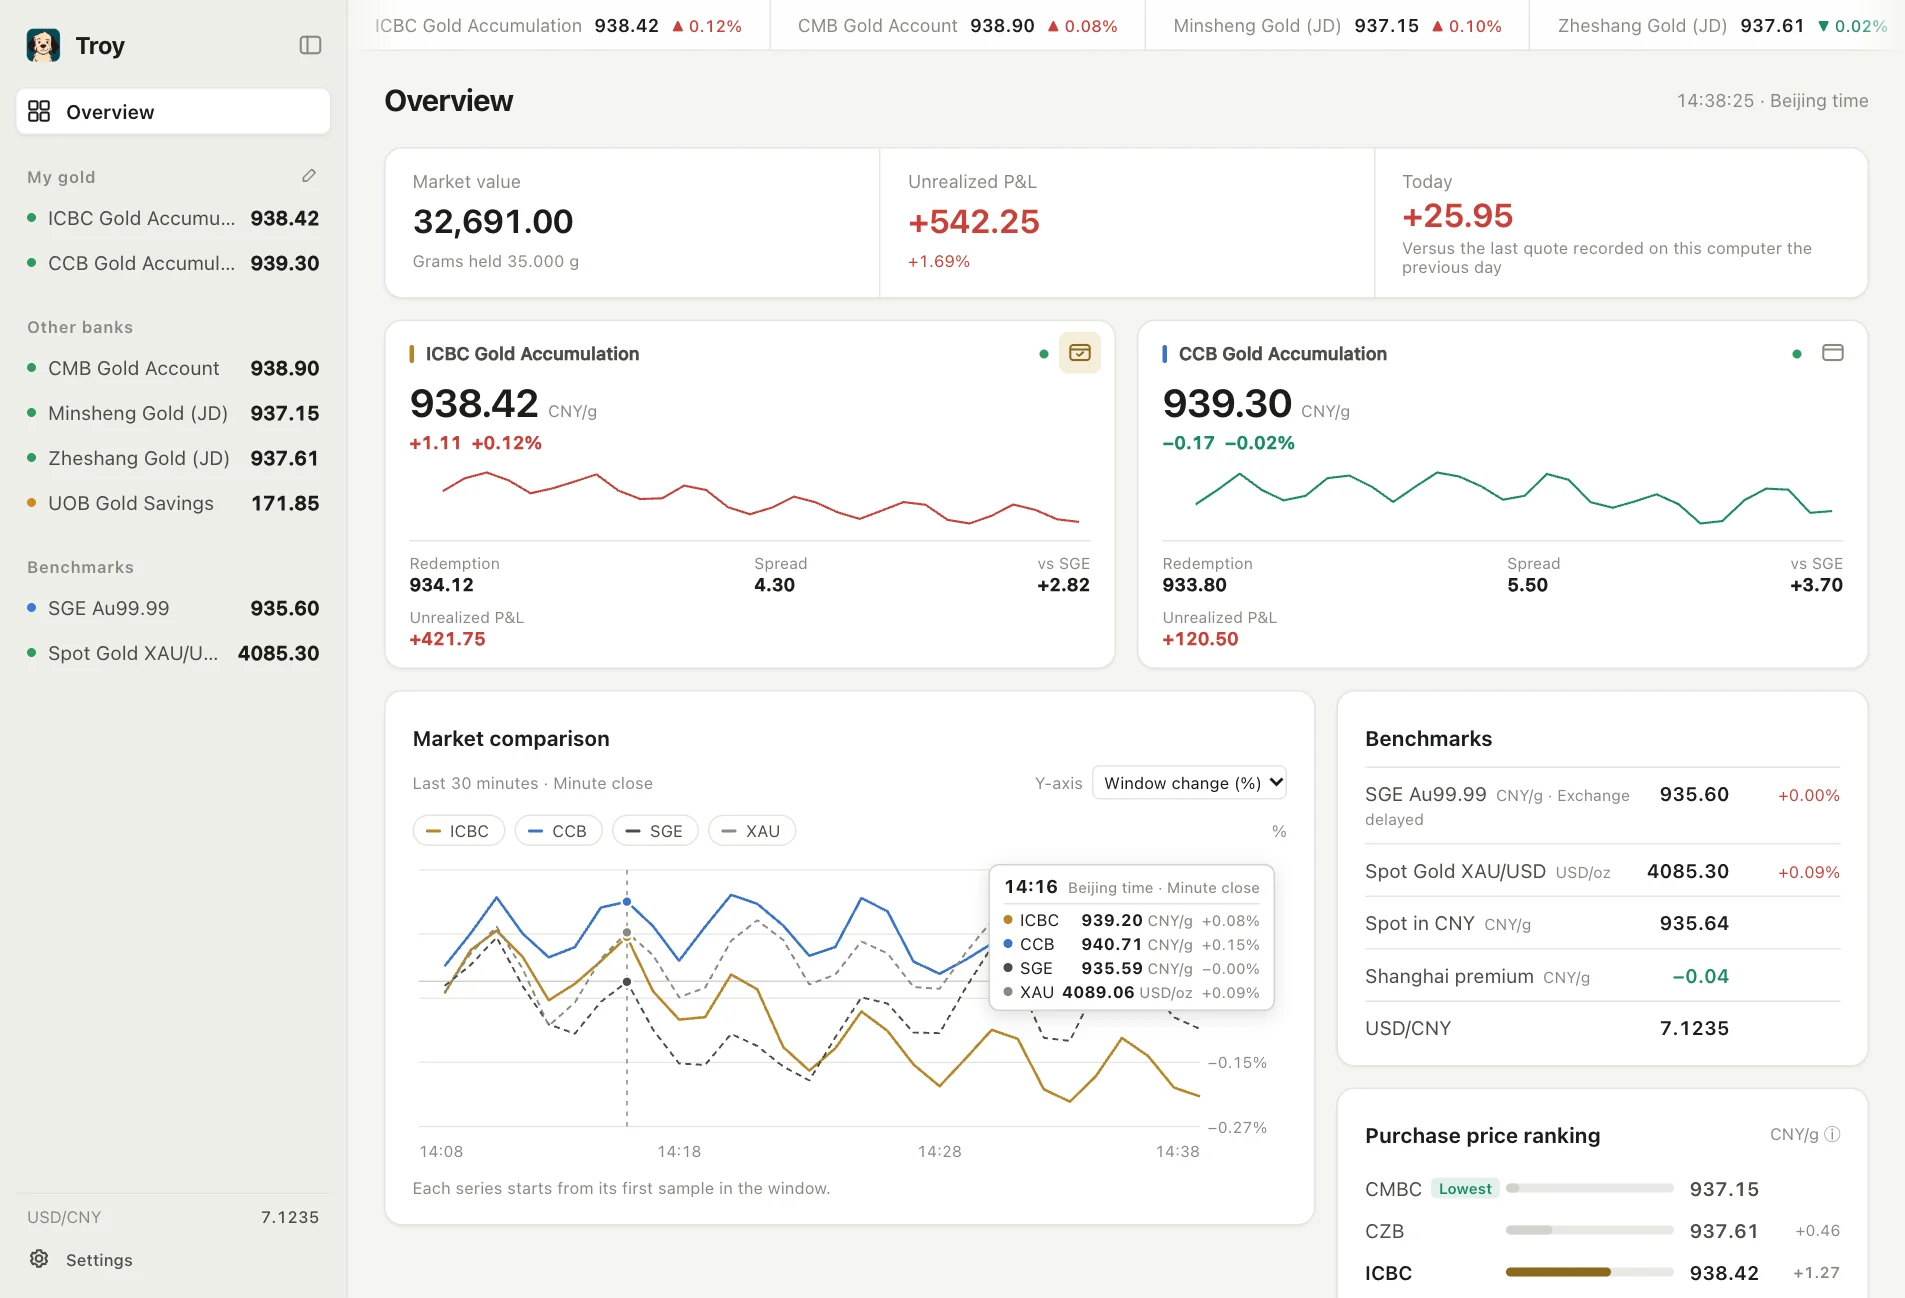
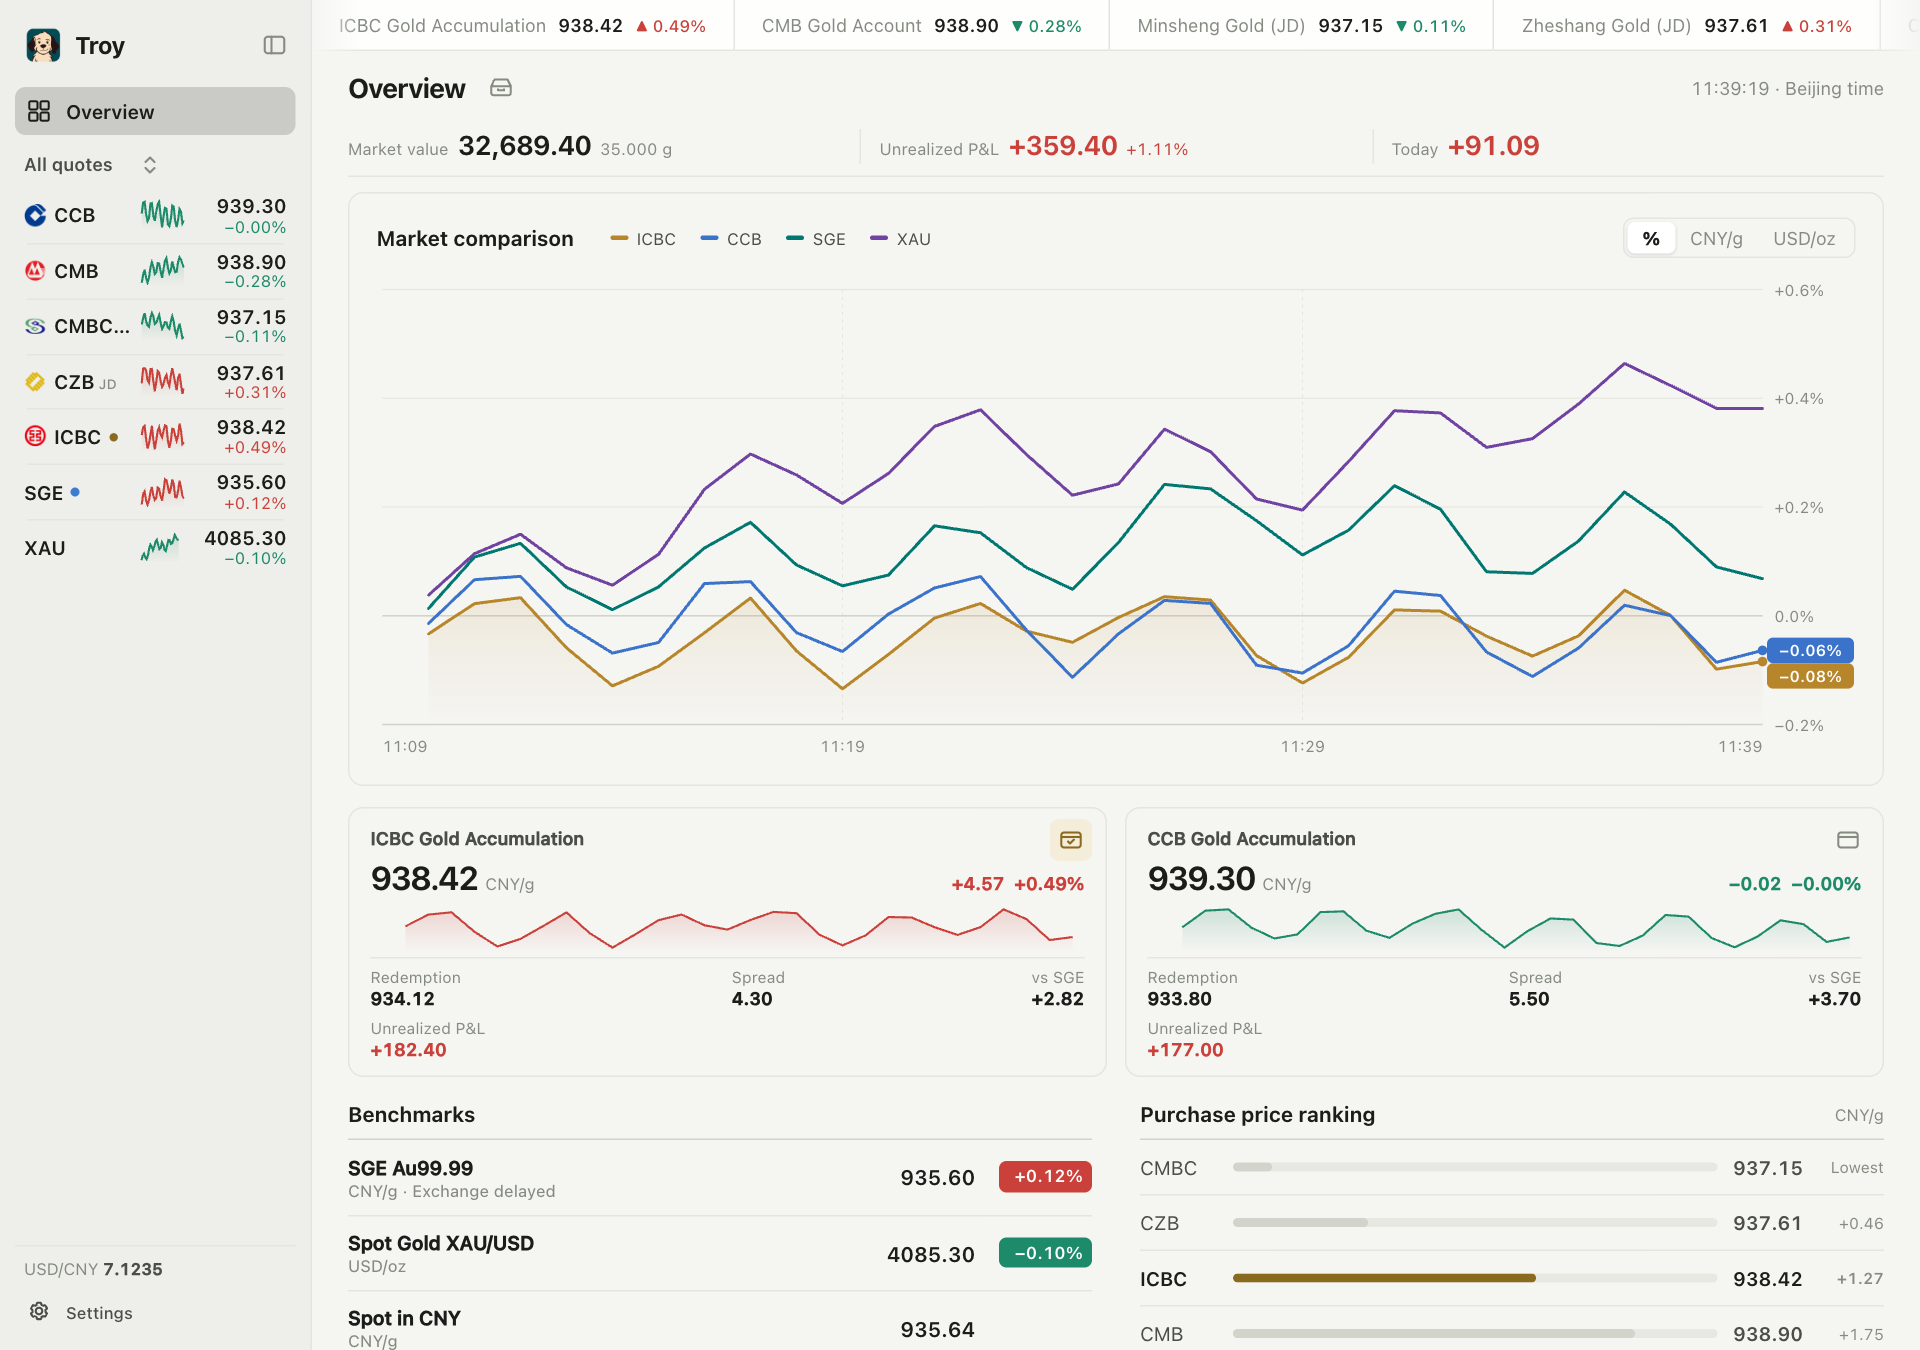
Refresh bilingual dashboard screenshots and 2.1 usage guide

diff --git a/README.md b/README.md
@@ -26,7 +26,7 @@
 
 ---
 
-Named for the troy ounce, Troy follows six bank gold accounts, Shanghai Gold Exchange Au99.99 and XAU/USD. Pin a quote to your Mac menu bar or check it from the Windows tray. Holdings, price targets and sampled history stay on your computer.
+Named for the troy ounce, Troy follows five bank gold accounts, Shanghai Gold Exchange Au99.99 and XAU/USD. Pin a quote to your Mac menu bar or check it from the Windows tray. Holdings, price targets and sampled history stay on your computer.
 
 <a id="install"></a>
 
@@ -42,25 +42,27 @@ Download the latest build from [GitHub Releases](https://github.com/Pixeldooooog
 > [!NOTE]
 > The Mac app is ad hoc signed and not notarized, so allow it under **System Settings → Privacy & Security** on first launch. The Windows installer is unsigned and SmartScreen may warn. Every release ships a `SHA256SUMS.txt`.
 
+Open **Settings → About** and choose **Check for updates** to check immediately. Automatic checks cache a successful result for 24 hours. When a new version appears, you can read the release notes, open the download page or install the signed update and restart.
+
 <a id="features"></a>
 
 ## Reading the dashboard
 
 <picture>
   <source media="(prefers-color-scheme: dark)" srcset="assets/overview-en-dark.webp">
-  <img width="100%" src="assets/overview-en-light.webp" alt="Troy Overview with holdings, a minute-price readout and bank purchase prices">
+  <img width="100%" src="assets/overview-en-light.webp" alt="Troy Overview with bank logos, watchlist sparklines, portfolio totals and a multi-market trend chart">
 </picture>
 
-<sub>Local development build · simulated quotes · times in Beijing time (UTC+8)</sub>
+<sub>Troy 2.1.1 · simulated quotes and holdings · times in Beijing time (UTC+8)</sub>
 
-| View                | What you can do                                                                                                                                                                                                                                                               |
-| ------------------- | ----------------------------------------------------------------------------------------------------------------------------------------------------------------------------------------------------------------------------------------------------------------------------- |
-| **Holdings**        | See purchase price, redemption price and spread. Hover over a sparkline for the last quote in that minute. Pin an account from its card. Enter grams and cost for a portfolio valuation and unrealized P&L.                                                                   |
-| **Comparison**      | Hover or focus the chart and use the arrow keys to read the original price and unit for each market at one minute. Choose price, interval change or an index starting at 100.                                                                                                 |
-| **Market detail**   | Switch between intraday, 1- or 5-minute candles, and daily, weekly or monthly candles. Quote time and collection time have separate labels. Missing minutes leave gaps in the overview.                                                                                       |
-| **Purchase prices** | Rank comparable CNY accounts and see each bank’s premium to the lowest quote within the comparison window.                                                                                                                                                                    |
-| **Price alerts**    | Set a target per market. A qualifying quote at or below the target triggers once and re-arms after a rise above it. Reopen the window from the Mac menu bar or Windows tray.                                                                                                  |
-| **Settings**        | Use the gear at the bottom left to change language, theme, market colors launch at login and automatic update checks. When a new stable release is available, Troy offers its download page. In Settings you can also choose to install a matching signed update and restart. |
+| View                | What you can do                                                                                                                                                                                                                                                                |
+| ------------------- | ------------------------------------------------------------------------------------------------------------------------------------------------------------------------------------------------------------------------------------------------------------------------------ |
+| **Holdings**        | See purchase price, redemption price and spread. Hover over a sparkline for the last quote in that minute. Pin an account from its card. Enter grams and cost for a portfolio valuation and unrealized P&L.                                                                    |
+| **Comparison**      | Hover or focus the chart and use the arrow keys to read the original price and unit for each market at one minute. Choose window change (%), CNY/g or USD/oz. Click a legend item to show or hide its line.                                                                    |
+| **Market detail**   | Switch between intraday, 1- or 5-minute candles, and daily, weekly or monthly candles. Quote time and collection time have separate labels. Swipe horizontally across the chart to move between markets in sidebar order.                                                      |
+| **Purchase prices** | Rank comparable CNY accounts and see each bank’s premium to the lowest quote within the comparison window.                                                                                                                                                                     |
+| **Price alerts**    | Set a target per market. Drag its chart line or click its price tag, type a value and press Enter. A qualifying quote at or below the target triggers once and re-arms after a rise above it. Reopen the window from the Mac menu bar or Windows tray.                         |
+| **Settings**        | Use the gear at the bottom left to change language, theme, market colors, launch at login and automatic update checks. When a new stable release is available, Troy offers its download page. In Settings you can also choose to install a matching signed update and restart. |
 
 <a id="markets"></a>
 
@@ -68,24 +70,24 @@ Download the latest build from [GitHub Releases](https://github.com/Pixeldooooog
 
 | Market                            | Unit   | Quote                                       | Poll |
 | :-------------------------------- | :----- | :------------------------------------------ | ---: |
-| ICBC gold accumulation            | CNY/g  | Purchase price, redemption shown separately | 15 s |
-| China Merchants Bank gold account | CNY/g  | Customer purchase price, with redemption    | 15 s |
-| CCB gold accumulation             | CNY/g  | Official purchase and redemption prices     | 30 s |
-| Minsheng gold (JD Finance)        | CNY/g  | Reference price, no redemption              | 30 s |
-| Zheshang gold (JD Finance)        | CNY/g  | Reference price, no redemption              | 30 s |
+| ICBC gold accumulation            | CNY/g  | Purchase price, redemption shown separately |  5 s |
+| China Merchants Bank gold account | CNY/g  | Customer purchase price, with redemption    |  5 s |
+| CCB gold accumulation             | CNY/g  | Official purchase and redemption prices     |  5 s |
+| Minsheng gold (JD Finance)        | CNY/g  | Reference price, no redemption              |  5 s |
+| Zheshang gold (JD Finance)        | CNY/g  | Reference price, no redemption              |  5 s |
 | Shanghai Gold Exchange Au99.99    | CNY/g  | Official delayed quote                      | 30 s |
 | International spot gold XAU/USD   | USD/oz | Live proxy quote                            | 10 s |
 | USD/CNY                           | —      | Used only for unit conversion               | 60 s |
 
-**Quote time and collection time.** The table lists Troy’s polling interval. The public SGE table carries a trading date. Its intraday chart uses timestamps from the exchange’s minute feed. [SGE delayed quotes](https://www.sge.com.cn/sjzx/yshqbg)
+**Quote time and collection time.** The table lists default request intervals. In Settings, track one bank at 3, 5 or 10 seconds. When a feed fails, only that feed slows down; it resumes its configured interval after a successful request. The public SGE table carries a trading date. Its intraday chart uses timestamps from the exchange’s minute feed. [SGE delayed quotes](https://www.sge.com.cn/sjzx/yshqbg)
 
-**Comparing units.** The CNY/g price axis converts spot gold using the available USD/CNY reference rate and grams per troy ounce. The chart shows the rate used. The USD/oz axis shows the native spot price. For performance across currencies, choose interval change or the index, both based on each market’s first quote in the window.
+**Comparing units.** The CNY/g price axis converts spot gold using the available USD/CNY reference rate and grams per troy ounce. The chart identifies the reference rate used for conversion. The USD/oz axis shows the native spot price. Choose % to compare each market with its own first quote in the window.
 
 <a id="usage"></a>
 
 ## 🚀 Usage
 
-1. Open **Settings → Holdings** and tick the accounts you hold. Grams and cost are optional and enable P&L.
+1. Click the drawer beside **Overview** to manage your accounts, or open **Settings → Holdings**. Grams and cost are optional and enable P&L.
 2. The **Overview** shows your holdings, relative performance, benchmarks and the price ranking. Click any card or ticker item for details.
 3. On a market's page, **pin it to the menu bar or tray** or **set a price alert**.
 
@@ -138,7 +140,7 @@ npm run tauri -- dev --config src-tauri/tauri.dev.conf.json
 ├── src/                    React + TypeScript window
 │   ├── App.tsx               routing and shortcuts
 │   ├── pages/                Overview · MarketDetail · Settings
-│   ├── components/           Sidebar, Ticker, charts/ (candles, comparison, sparkline)
+│   ├── components/           Sidebar, Ticker, SwipePager, charts/ (candles, comparison, sparkline)
 │   ├── hooks/                snapshot subscription, overview data, updates
 │   ├── lib/                  typed IPC (api.ts), types, markets, portfolio math, formatting
 │   ├── i18n/                 zh / en strings
@@ -176,7 +178,7 @@ It's what you would get if you sold now. Markets without a redemption price (the
 <details>
 <summary><b>Where are my holdings stored?</b></summary>
 
-Only on this computer, in the window's local storage and `quotes.sqlite3`. Troy uploads no personal data.
+Holdings and preferences are stored on this computer in `quotes.sqlite3` alongside sampled quotes and alert targets.
 
 </details>
 
@@ -207,7 +209,7 @@ On every push to main and every pull request, [CI](.github/workflows/ci.yml) che
 
 **One-time setup for auto-update:** add the updater private key as the `TAURI_SIGNING_PRIVATE_KEY` repository secret (and `TAURI_SIGNING_PRIVATE_KEY_PASSWORD` if it has one). The matching public key is in `src-tauri/tauri.conf.json`. This is Tauri's own signature for update bundles and is independent of Apple or Windows code signing. Keep a backup of the private key: without it, installed apps cannot verify future updates.
 
-To release, run `npm run version:set -- 2.1.0` and merge to main, then run the [Release](https://github.com/Pixeldooooog/Troy/actions/workflows/release.yml) workflow on **main** with the matching tag (for example `v2.0.2`), or push the tag. The pipeline rebuilds and tests on both platforms, builds the universal DMG and the Windows x64 installer, smoke-tests mounting, installation and launch, then publishes the release with SHA-256 checksums and the signed `latest.json` update manifest, and verifies the public downloads.
+To release, run `npm run version:set -- 2.1.2` and merge to main, then run the [Release](https://github.com/Pixeldooooog/Troy/actions/workflows/release.yml) workflow on **main** with the matching tag (for example `v2.1.2`), or push the tag. The pipeline rebuilds and tests on both platforms, builds the universal DMG and the Windows x64 installer, smoke-tests mounting, installation and launch, then publishes the release with SHA-256 checksums and the `latest.json` manifest containing the update bundle signatures, and verifies the public downloads.
 
 ## 📄 License
 
